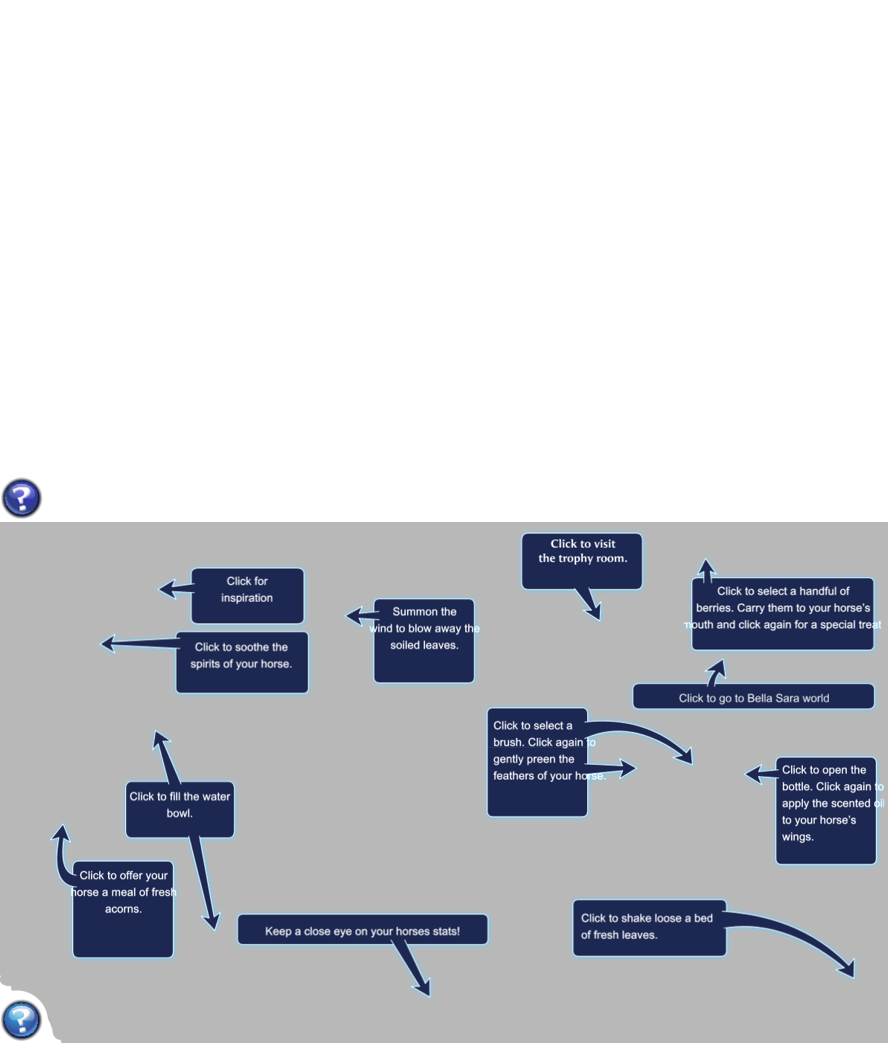
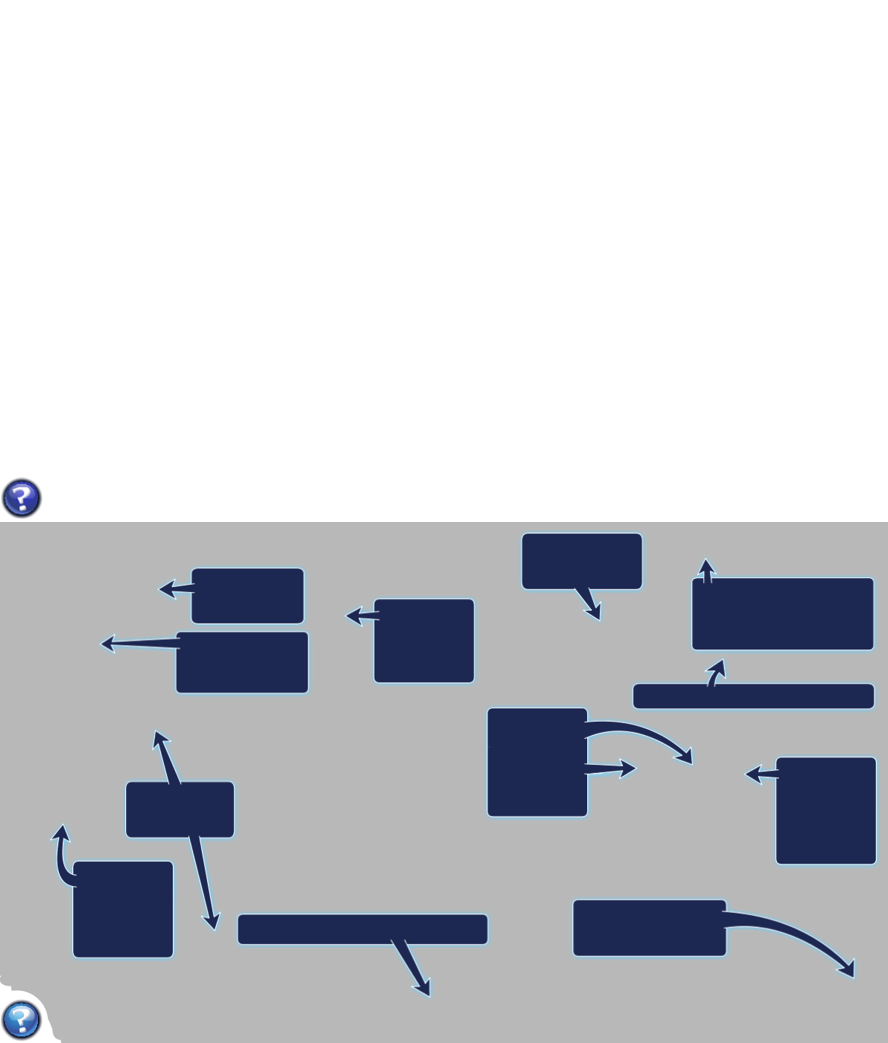
Setup localized help text air stable

diff --git a/public/stablesrecreation/js/airStable.js b/public/stablesrecreation/js/airStable.js
@@ -862,11 +862,67 @@ function pointerout(sprite) {
             });
             musicButton.on('pointerover', function (pointer) { this.setFrame(`music_${playMusic ? 'on' : 'off'}_hover`) });
             musicButton.on('pointerout', function (pointer) { this.setFrame(`music_${playMusic ? 'on' : 'off'}`) });
-        // help button
-        const helpButton = this.add.sprite(444, 261, 'help_button', 'idle').setInteractive(this.input.makePixelPerfect(150));
-            helpButton.on('pointerover', function (pointer) { this.setFrame('help') });
-            helpButton.on('pointerout', function (pointer) { this.setFrame('idle') });
+        
+        
+            // help button
+            var helpPopups = [];
+            function showLocalizedHelpTexts(xPos, yPos, localeTxtKey, settings, scene)
+            {
+                const helpTxt = scene.add.text(xPos, yPos, 'Static Text Object', settings).setAlpha(0);
+                helpTxt.text = localeTxtKey;
+                helpTxt.setOrigin(0.5)
+                helpPopups.push(helpTxt);
+            }
 
+            const helpButton = this.add.sprite(444, 261, 'help_button', 'idle').setInteractive(this.input.makePixelPerfect(150));         
+            const hoverTextSettingsHelp = {
+                font: 'bold 12px Arial', 
+                align: 'center',
+                color: '#ffffff',
+                wordWrap: {width: 100},
+                lineSpacing: -2
+            }
+
+            const hoverTextSettingsHelpBiggerBox = {
+                font: 'bold 11px Arial', 
+                align: 'center',
+                color: '#ffffff',
+                wordWrap: {width: 150},
+                lineSpacing: -2
+            }
+
+            const hoverTextSettingsHelpOneLine = {
+                font: 'bold 11px Arial', 
+                align: 'center',
+                color: '#ffffff',
+            }
+
+            showLocalizedHelpTexts(585, 30, localeData.txtHelpTrophyRoom, hoverTextSettingsHelp, this);
+            showLocalizedHelpTexts(180, 285, localeData.txtHelpFountain, hoverTextSettingsHelp, this);
+            showLocalizedHelpTexts(365, 409, localeData.txtHelpStats, hoverTextSettingsHelpOneLine, this);
+            showLocalizedHelpTexts(245, 140, localeData.txtHelpSpeaker, hoverTextSettingsHelp, this);
+            showLocalizedHelpTexts(250, 75, localeData.txtHelpInspiration, hoverTextSettingsHelp, this);
+            showLocalizedHelpTexts(425, 110, localeData.txtHelpWindChime, hoverTextSettingsHelp, this);
+            showLocalizedHelpTexts(780, 90, localeData.txtHelpBerries, hoverTextSettingsHelpBiggerBox, this);
+            showLocalizedHelpTexts(125, 380, localeData.txtHelpAcorn, hoverTextSettingsHelp, this);
+            showLocalizedHelpTexts(750, 175, localeData.txtHelpWorld, hoverTextSettingsHelpOneLine, this);
+            showLocalizedHelpTexts(827, 290, localeData.txtHelpOil, hoverTextSettingsHelp, this);
+            showLocalizedHelpTexts(540, 240, localeData.txtHelpBrush, hoverTextSettingsHelp, this);
+            //showLocalizedHelpTexts(605, 365, localeData.txtHelpLuck, hoverTextSettingsHelp, this);
+            showLocalizedHelpTexts(650, 410, localeData.txtHelpBranch, hoverTextSettingsHelp, this);
+        
+            helpButton.on('pointerover', function (pointer) { 
+                this.setFrame('help') 
+                helpPopups.forEach(helpTxt => {
+                    helpTxt.setAlpha(1);
+                });
+            });
+            helpButton.on('pointerout', function (pointer) { 
+                this.setFrame('idle') 
+                helpPopups.forEach(helpTxt => {
+                    helpTxt.setAlpha(0);
+                });
+            });
 
         // Progress bars
         const bar = 13
